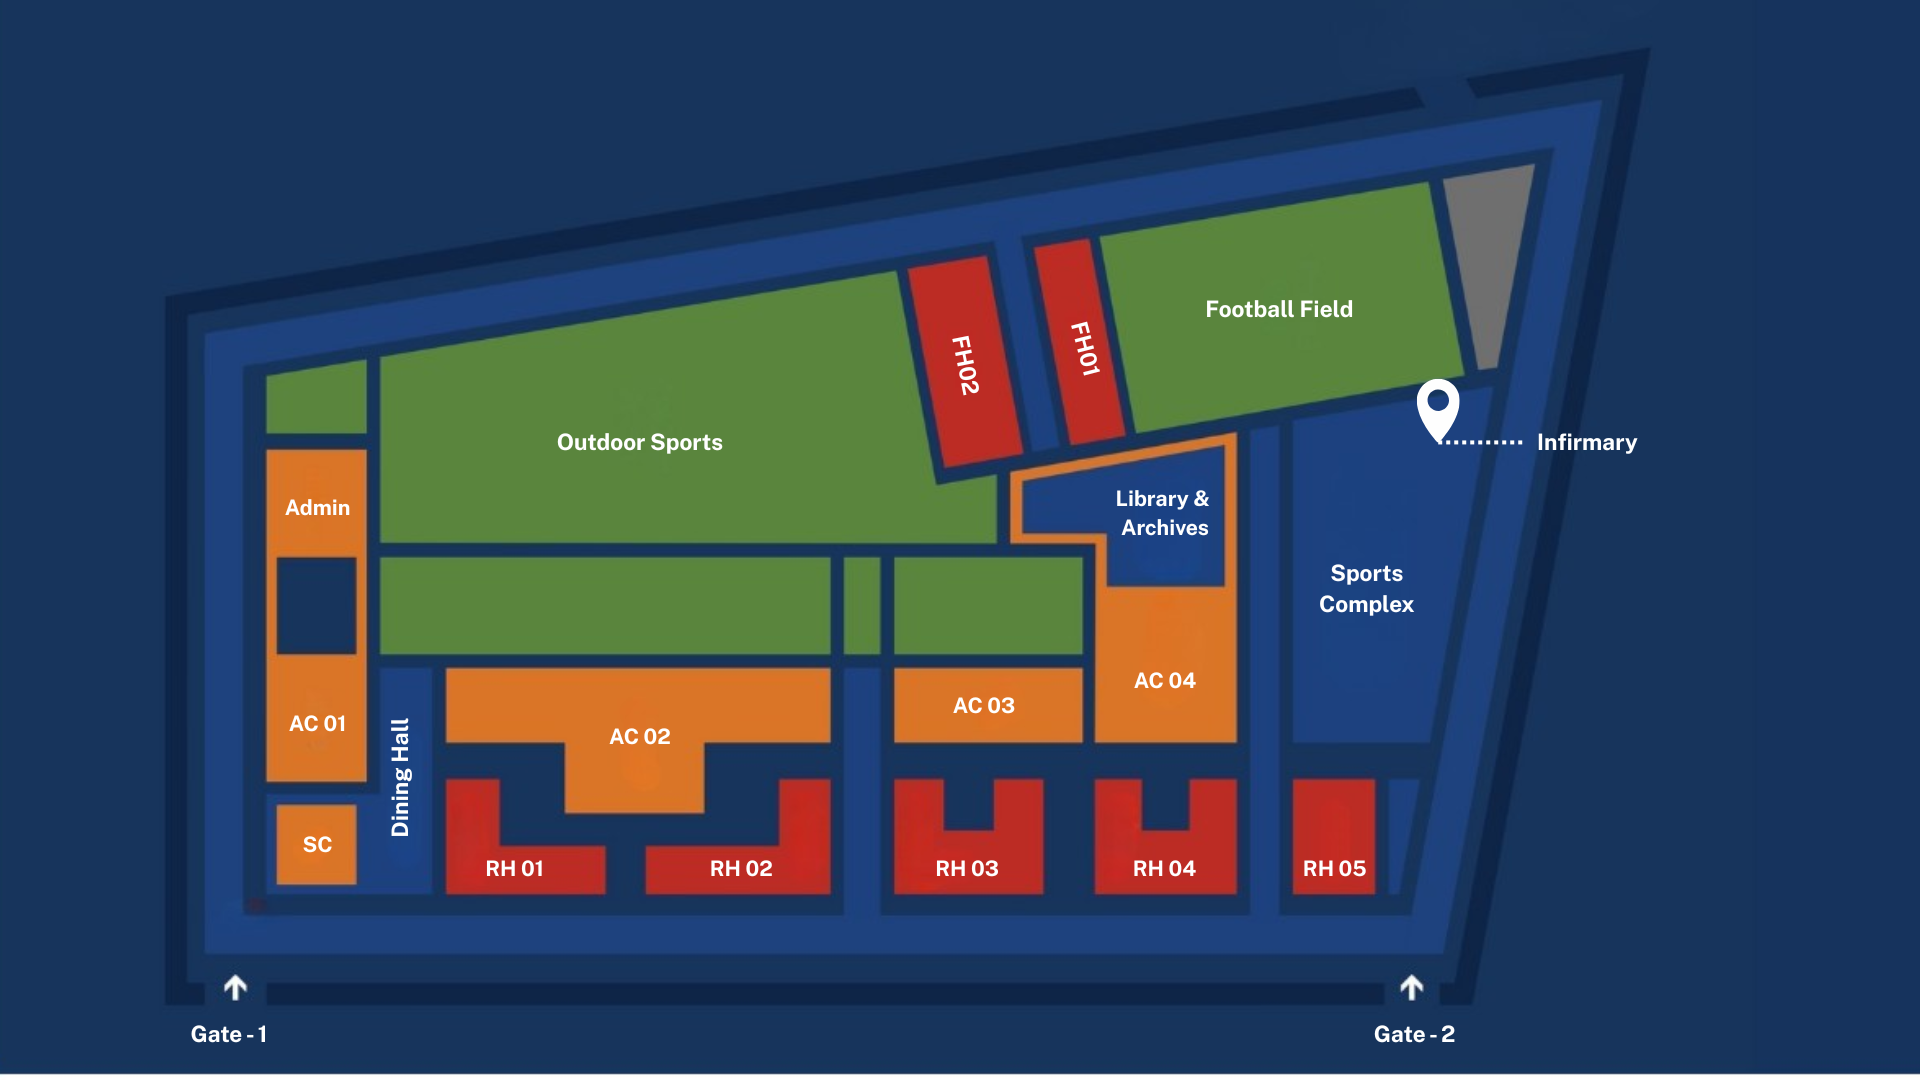
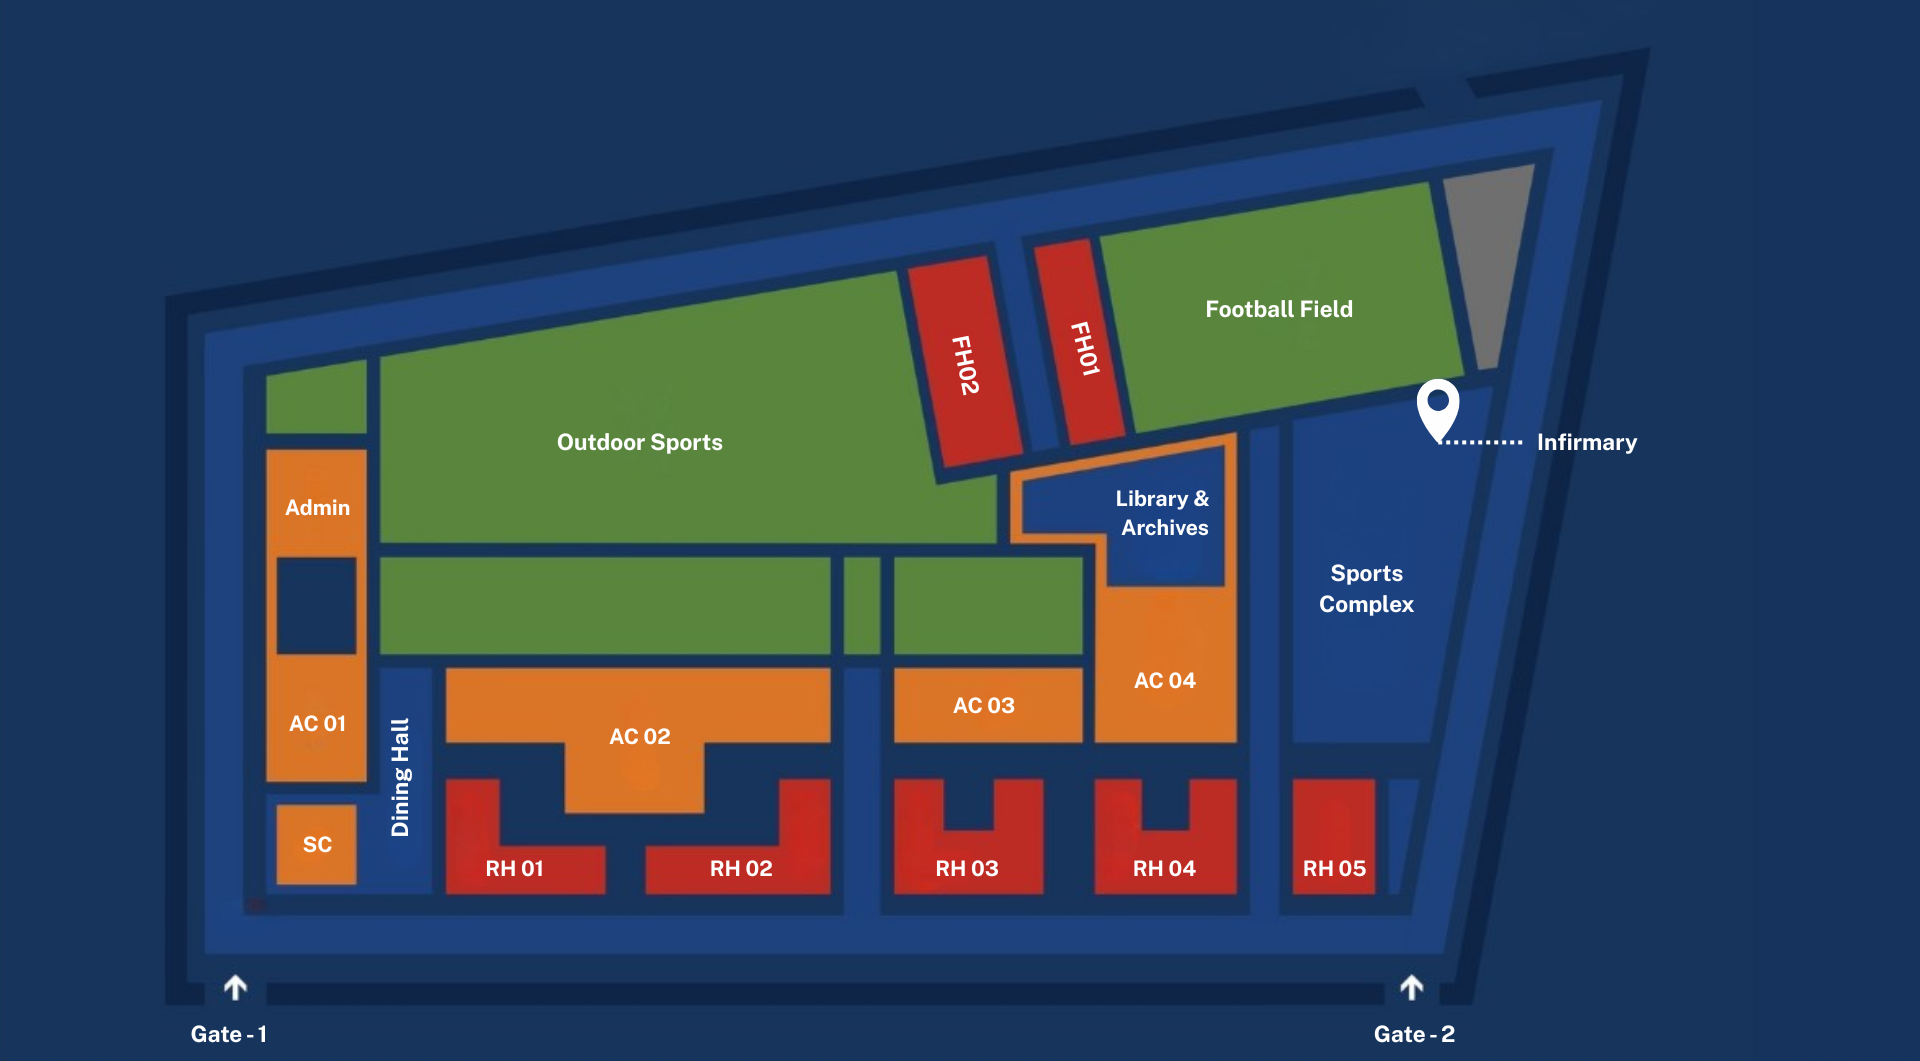
Mergehomepagewoerrors tu t (#49)
* added images

* Homepage

* MapFix

* removed-stuff

* Mobile optimized

* Header mobile responsive

* mobile responsive header+spellingchanges

* Changes fixed

* fix: lint errors and warnings

---------

diff --git a/app/page.tsx b/app/page.tsx
@@ -1,5 +1,6 @@
 'use client';
 
+import Link from 'next/link';
 import AboutUsSection from './home-components/about-us';
 import CampusMap from './home-components/CampusMap';
 import { SectionActivationProvider } from './home-components/SectionActivationContext';
@@ -16,11 +17,9 @@ export default function Home() {
       <div className="fixed inset-0 z-0" style={{ backgroundColor: '#f3ebe0' }} />
       
 
-      <main className="relative z-20 min-h-screen overflow-auto pt-20 md:pt-[96px]">
+      <main className="relative z-20 min-h-screen overflow-auto">
         {/* Hero Reel Section */}
-        <div className="relative h-screen flex items-center justify-center w-full">
-          <ReelSection src="/reel.mp4" />
-        </div>
+        <ReelSection src="/reel.mp4" shrinkRange={600} />
 
         {/* About Us Section */}
         <section className="w-full py-8 md:py-12">
@@ -32,7 +31,7 @@ export default function Home() {
         {/* Events Section */}
         <section className="w-full py-12 md:py-16">
           <div className="max-w-7xl mx-auto px-4 sm:px-6">
-            <h2 className="text-3xl sm:text-5xl font-bold mb-8 sm:mb-12 text-center" style={{ color: '#242a4a' }}>
+            <h2 className="text-4xl sm:text-6xl font-bold mb-8 sm:mb-12 text-center" style={{ color: '#242a4a' }}>
               Sports Events
             </h2>
             <EventSection />
@@ -40,9 +39,9 @@ export default function Home() {
         </section>
 
         {/* Campus Map Section */}
-        <section className="w-full py-16 md:py-24" style={{ backgroundColor: '#1a2a5e' }}>
+        <section className="w-full py-8 md:py-12" style={{ backgroundColor: '#1a2a5e' }}>
           <div className="max-w-7xl mx-auto px-4 sm:px-6">
-            <h2 className="text-3xl sm:text-5xl font-bold mb-8 sm:mb-12 text-center" style={{ color: '#ffffff' }}>
+            <h2 className="text-4xl sm:text-6xl font-bold mb-8 sm:mb-12 text-center" style={{ color: '#ffffff' }}>
               Campus Map
             </h2>
             <div>
@@ -54,7 +53,7 @@ export default function Home() {
         {/* Contact & Footer Section */}
         <section className="w-full bg-gray-900 text-white py-6 md:py-8">
           <div className="max-w-7xl mx-auto px-4 sm:px-6">
-            <h2 className="text-xl sm:text-2xl font-bold mb-6 text-center" style={{ color: '#ffffff' }}>
+            <h2 className="text-3xl sm:text-4xl font-bold mb-6 text-center" style={{ color: '#ffffff' }}>
               Get in Touch
             </h2>
             <div className="grid grid-cols-1 md:grid-cols-3 gap-6 md:gap-8 items-center">
@@ -65,9 +64,9 @@ export default function Home() {
                 </h3>
                 <ul className="space-y-1 text-xs md:text-sm">
                   <li>
-                    <a href="/" className="text-gray-300 hover:text-white transition">
+                    <Link href="/" className="text-gray-300 hover:text-white transition">
                       Home
-                    </a>
+                    </Link>
                   </li>
                   <li>
                     <a href="/accommodations" className="text-gray-300 hover:text-white transition">

diff --git a/components/Header.tsx b/components/Header.tsx
@@ -28,8 +28,8 @@ export default function Header() {
   ];
 
   return (
-    <header className="sticky top-0 z-50 bg-white border-b border-gray-200">
-      <div className="max-w-7xl mx-auto px-4 h-16 md:h-20 flex items-center justify-between md:justify-start">
+    <header className="sticky top-0 z-50 p-4" style={{ backgroundColor: '#2C355D' }}>
+      <div className="max-w-7xl mx-auto flex items-center justify-between md:justify-start">
         {/* LEFT: LOGO */}
         <Link href="/" className="flex items-center gap-3 flex-shrink-0">
           <Image
@@ -39,7 +39,7 @@ export default function Header() {
             height={40}
             className="object-contain"
           />
-          <span className="text-black text-lg font-semibold">
+          <span className="text-lg font-semibold" style={{ color: '#F3EBE0' }}>
             Agneepath
           </span>
         </Link>
@@ -51,7 +51,8 @@ export default function Header() {
               <Link
                 key={link.href}
                 href={link.href}
-                className="text-black text-base hover:text-orange-500 transition"
+                className="text-base transition hover:text-orange-400"
+                style={{ color: '#F3EBE0' }}
               >
                 {link.label}
               </Link>
@@ -75,16 +76,17 @@ export default function Header() {
           {isMobile && (
             <button
               onClick={() => setIsMenuOpen(!isMenuOpen)}
-              className="w-10 h-10 hover:bg-gray-100 rounded-md transition flex items-center justify-center"
+              className="w-10 h-10 hover:bg-gray-700 rounded-md transition flex items-center justify-center"
               aria-label="Toggle menu"
               type="button"
             >
               <svg
-                className="w-6 h-6 text-black"
+                className="w-6 h-6"
                 fill="none"
                 stroke="currentColor"
                 viewBox="0 0 24 24"
                 strokeWidth="2"
+                style={{ color: '#F3EBE0' }}
               >
                 {isMenuOpen ? (
                   <path strokeLinecap="round" strokeLinejoin="round" d="M6 18L18 6M6 6l12 12" />
@@ -99,13 +101,14 @@ export default function Header() {
 
       {/* Mobile Menu - Only on mobile */}
       {isMobile && isMenuOpen && (
-        <div className="bg-white border-t border-gray-200">
+        <div className="border-t border-gray-700" style={{ backgroundColor: '#2C355D' }}>
           <nav className="px-4 py-2 space-y-1">
             {navLinks.map((link) => (
               <Link
                 key={link.href}
                 href={link.href}
-                className="block text-black text-sm py-2 px-3 hover:bg-gray-100 hover:text-orange-500 rounded-md transition"
+                className="block text-sm py-2 px-3 hover:bg-gray-700 hover:text-orange-400 rounded-md transition"
+                style={{ color: '#F3EBE0' }}
                 onClick={() => setIsMenuOpen(false)}
               >
                 {link.label}

diff --git a/app/home-components/CampusMap.tsx b/app/home-components/CampusMap.tsx
@@ -15,27 +15,27 @@ type Venue = {
 const venues: Venue[] = [
   {
     id: 1,
-    name: "Sunken Feild",
-    sports: ["Futsal"],
+    name: "Outdoor Field",
+    sports: ["Futsal - Sunken Field", "Volleyball - Volleyball Field", "Basketball - Basketball Court"],
     dates: "1 Feb 2026",
-    top: "55%",
-    left: "37%",
+    top: "43%",
+    left: "32%",
   },
   {
     id: 2,
     name: "Sports MPH",
-    sports: ["Chess - Agneepath Room", "Pool - Pool Room", "Snooker - Pool Room", "Squash - Squash court", "Shooting - Shooting range", "Badminton - Badminton Court", "Table Tennis - Table Tennis Room"],
+    sports: ["Chess - Agneepath Room", "Pool - Pool Room", "Snooker - Pool Room", "Squash - Squash Court", "Shooting - Shooting Range", "Badminton - Sports MPH", "Table Tennis - Table Tennis Room", "Basketball - Basketball Court"],
     dates: "31 Jan 2026",
-    top: "40%",
-    left: "70%",
+    top: "60%",
+    left: "71%",
   },
   {
     id: 3,
-    name: "Football Feild",
-    sports: ["Football"],
+    name: "Football Field",
+    sports: ["Football", "Cricket"],
     dates: "31 Jan 2026",
-    top: "25%",
-    left: "60%",
+    top: "31%",
+    left: "65%",
   },
   {
     id: 4,
@@ -43,23 +43,7 @@ const venues: Venue[] = [
     sports: ["Tennis"],
     dates: "31 Jan 2026",
     top: "35%",
-    left: "17%",
-  },
-  {
-    id: 5,
-    name: "Sports Court",
-    sports: ["Basketball", "Volleyball"],
-    dates: "31 Jan 2026",
-    top: "55%",
-    left: "70%",
-  },
-  {
-    id: 6,
-    name: "Cricket Court",
-    sports: ["Cricket"],
-    dates: "31 Jan 2026",
-    top: "22%",
-    left: "65%",
+    left: "17%"
   },
 ];
 
@@ -103,7 +87,7 @@ export default function CampusMap() {
             <div
               className="
                 absolute left-6 top-1/2 -translate-y-1/2
-                min-w-[220px]
+                min-w-[220px]            
                 rounded-xl
                 bg-white/70
                 backdrop-blur-xl
@@ -116,7 +100,7 @@ export default function CampusMap() {
               <div
                 className="
                   absolute -left-2 top-1/2 -translate-y-1/2
-                  w-4 h-4
+                  w-6 h-4
                   bg-white/70
                   rotate-45
                   border-l border-b border-white/40

diff --git a/app/home-components/ReelSection.tsx b/app/home-components/ReelSection.tsx
@@ -1,18 +1,50 @@
 'use client';
 
-export default function ReelSection({ src }: { src: string }) {
+import { useState, useEffect } from 'react';
+
+export default function ReelSection({ src, shrinkRange = 0 }: { src: string; shrinkRange?: number }) {
+  const [scrollProgress, setScrollProgress] = useState(0);
+
+  useEffect(() => {
+    const handleScroll = () => {
+      const scrolled = window.scrollY;
+      const progress = Math.min(scrolled / shrinkRange, 1);
+      setScrollProgress(progress);
+    };
+
+    if (shrinkRange > 0) {
+      window.addEventListener('scroll', handleScroll, { passive: true });
+      return () => window.removeEventListener('scroll', handleScroll);
+    }
+  }, [shrinkRange]);
+
+  const scale = 1 - scrollProgress * 0.2; // Shrinks to 80% at full scroll
+  const opacity = 1 - scrollProgress * 0.3; // Fades to 70% opacity
+
   return (
-    <section className="w-full h-screen overflow-hidden">
-      <video
-        autoPlay
-        muted
-        loop
-        playsInline
-        preload="auto"
-        className="w-full h-full object-cover"
+    <section className="w-full h-screen overflow-hidden" style={{ display: 'flex', alignItems: 'center', justifyContent: 'center' }}>
+      <div
+        style={{
+          transform: `scale(${scale})`,
+          opacity,
+          transformOrigin: 'center',
+          transition: 'transform 0.1s ease-out, opacity 0.1s ease-out',
+          width: '100%',
+          height: '100%',
+        }}
+        className="overflow-hidden"
       >
-        <source src={src} type="video/mp4" />
-      </video>
+        <video
+          autoPlay
+          muted
+          loop
+          playsInline
+          preload="auto"
+          className="w-full h-full object-cover"
+        >
+          <source src={src} type="video/mp4" />
+        </video>
+      </div>
     </section>
   );
 }

diff --git a/components/gallery-component.tsx b/components/gallery-component.tsx
@@ -1,4 +1,5 @@
-import { cn } from "@/lib/utils"
+import { cn } from "@/lib/utils";
+import Image from "next/image";
 
 export type GalleryImage = {
   src: string
@@ -34,12 +35,15 @@ const Gallery = ({ sections }: { sections: GallerySection[] }) => {
               )}
             >
               {section.images.map((image, imageIndex) => (
-                <img
-                  key={imageIndex}
-                  src={image.src}
-                  alt={image.alt}
-                  className="h-full w-full rounded-lg object-cover"
-                />
+                <div key={imageIndex} className="relative h-64 w-full">
+                  <Image
+                    src={image.src}
+                    alt={image.alt}
+                    fill
+                    className="rounded-lg object-cover"
+                    sizes="(max-width: 768px) 100vw, (max-width: 1200px) 50vw, 33vw"
+                  />
+                </div>
               ))}
             </div>
           ))}

diff --git a/app/home-components/EventSection.tsx b/app/home-components/EventSection.tsx
@@ -1,4 +1,5 @@
 import React from "react";
+import Image from "next/image";
 
 type SportEvent = {
   name: string;
@@ -57,10 +58,12 @@ const EventSection: React.FC = () => {
               }}
             >
               <div style={styles.imageContainer}>
-                <img
+                <Image
                   src={`/images/${event.image}`}
                   alt={event.name}
+                  fill
                   style={styles.image}
+                  sizes="(max-width: 768px) 100vw, (max-width: 1200px) 50vw, 33vw"
                 />
               </div>
             </div>
@@ -146,6 +149,7 @@ const styles: { [key: string]: React.CSSProperties } = {
     backgroundColor: "#242a4a",
   },
   imageContainer: {
+    position: "relative" as const,
     width: "100%",
     height: "100%",
     overflow: "hidden",

diff --git a/app/layout.tsx b/app/layout.tsx
@@ -1,19 +1,12 @@
 import type { Metadata } from "next";
 import "./globals.css";
 import Header from "../components/Header";
-import { Josefin_Sans } from "next/font/google";
 import { Open_Sans } from "next/font/google";
 
 const openSans = Open_Sans({
   subsets: ["latin"],
   weight: ["400", "500", "600", "700"],
   variable: "--font-open-sans",
-  display: "swap",
-});
-
-const josefin = Josefin_Sans({
-  subsets: ["latin"],
-  weight: ["300", "400", "500", "600", "700"],
   display: "swap",
 });
 
